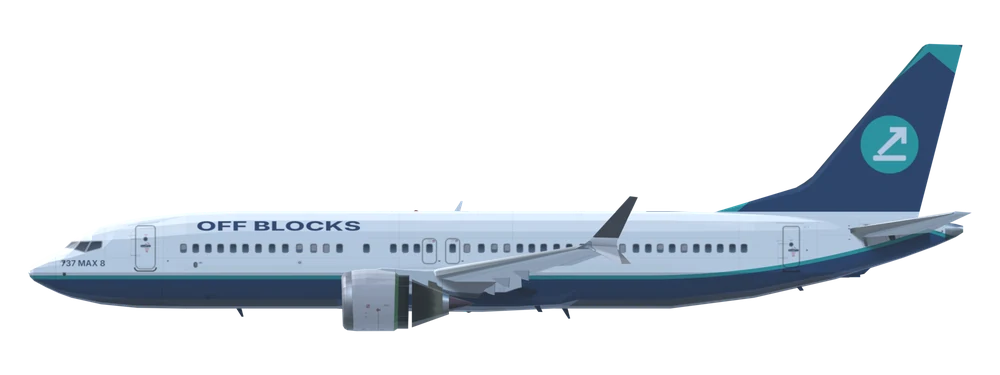
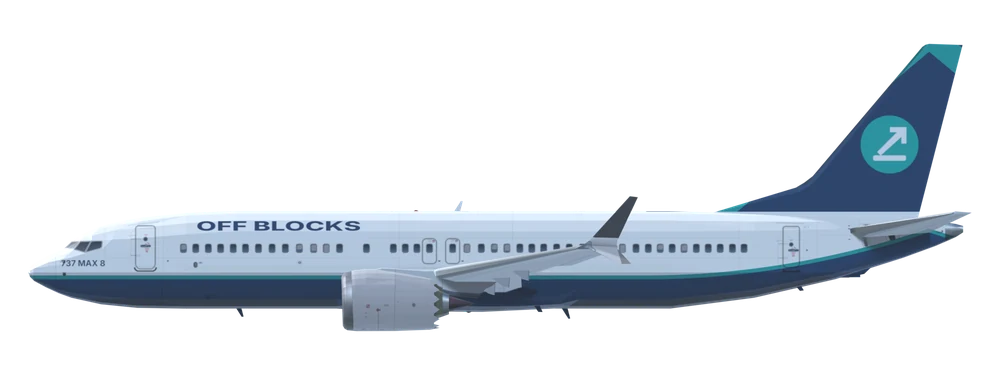
Fix 737 MAX 8 engine render
Claude-Session: https://claude.ai/code/session_01XrFePU9h1hCzy7p7tSHsYD

Changed region(s): [[0.372, 0.7333, 0.434, 0.88]]

diff --git a/sw.js b/sw.js
@@ -1,5 +1,5 @@
 /* Off Blocks service worker. Bump VER to push an update to installed copies. */
-const VER='ob-v34',CORE=["./", "index.html", "manifest.webmanifest", "network.json", "icons/icon-192.png", "icons/icon-512.png", "mapimg/detail.json", "mapimg/sat.webp", "mapimg/terrain.webp", "img/A19N.webp", "img/A19N_side.webp", "img/A20N.webp", "img/A20N_side.webp", "img/A21N.webp", "img/A21N_side.webp", "img/A21X.webp", "img/A21X_side.webp", "img/A306_side.webp", "img/A310.webp", "img/A310_side.webp", "img/A318.webp", "img/A318_side.webp", "img/A319.webp", "img/A319_side.webp", "img/A320.webp", "img/A320_side.webp", "img/A321.webp", "img/A321_side.webp", "img/A332_side.webp", "img/A333_side.webp", "img/A338.webp", "img/A338_side.webp", "img/A339.webp", "img/A339_side.webp", "img/A343_side.webp", "img/A346_side.webp", "img/A359_side.webp", "img/A35K.webp", "img/A35K_side.webp", "img/A388_side.webp", "img/AN24.webp", "img/AR21.webp", "img/AT42_side.webp", "img/AT76_side.webp", "img/B190.webp", "img/B37M.webp", "img/B37M_side.webp", "img/B38M.webp", "img/B38M_side.webp", "img/B39M.webp", "img/B39M_side.webp", "img/B3XM.webp", "img/B3XM_side.webp", "img/B712.webp", "img/B712_side.webp", "img/B722_side.webp", "img/B732.webp", "img/B732_side.webp", "img/B733_side.webp", "img/B734_side.webp", "img/B735.webp", "img/B735_side.webp", "img/B736_side.webp", "img/B737_side.webp", "img/B738_side.webp", "img/B739_side.webp", "img/B744_side.webp", "img/B748_side.webp", "img/B752.webp", "img/B752_side.webp", "img/B753.webp", "img/B753_side.webp", "img/B762.webp", "img/B762_side.webp", "img/B763_side.webp", "img/B764.webp", "img/B764_side.webp", "img/B772_side.webp", "img/B773.webp", "img/B773_side.webp", "img/B779.webp", "img/B779_side.webp", "img/B77L_side.webp", "img/B77W_side.webp", "img/B788_side.webp", "img/B789_side.webp", "img/B78X_side.webp", "img/BCS1_side.webp", "img/BCS3_side.webp", "img/C208.webp", "img/C208_side.webp", "img/C919.webp", "img/C919_side.webp", "img/CRJ2.webp", "img/CRJ2_side.webp", "img/CRJ7_side.webp", "img/CRJ9.webp", "img/CRJ9_side.webp", "img/CRJX_side.webp", "img/D328.webp", "img/DH8A.webp", "img/DH8A_side.webp", "img/DH8C_side.webp", "img/DH8D_side.webp", "img/DHC6_side.webp", "img/E120.webp", "img/E120_side.webp", "img/E135.webp", "img/E135_side.webp", "img/E140.webp", "img/E140_side.webp", "img/E145.webp", "img/E145_side.webp", "img/E170_side.webp", "img/E175_side.webp", "img/E190_side.webp", "img/E195.webp", "img/E195_side.webp", "img/E290_side.webp", "img/E295.webp", "img/E295_side.webp", "img/E75X.webp", "img/E75X_side.webp", "img/F100.webp", "img/F100_side.webp", "img/F50.webp", "img/F50_side.webp", "img/F70.webp", "img/F70_side.webp", "img/J41.webp", "img/L410.webp", "img/L410_side.webp", "img/MA60.webp", "img/MD83.webp", "img/MD83_side.webp", "img/MD90.webp", "img/MD90_side.webp", "img/RJ1H.webp", "img/RJ1H_side.webp", "img/RJ85.webp", "img/RJ85_side.webp", "img/SB20.webp", "img/SF34_side.webp", "img/T154.webp", "img/T154_side.webp"];
+const VER='ob-v35',CORE=["./", "index.html", "manifest.webmanifest", "network.json", "icons/icon-192.png", "icons/icon-512.png", "mapimg/detail.json", "mapimg/sat.webp", "mapimg/terrain.webp", "img/A19N.webp", "img/A19N_side.webp", "img/A20N.webp", "img/A20N_side.webp", "img/A21N.webp", "img/A21N_side.webp", "img/A21X.webp", "img/A21X_side.webp", "img/A306_side.webp", "img/A310.webp", "img/A310_side.webp", "img/A318.webp", "img/A318_side.webp", "img/A319.webp", "img/A319_side.webp", "img/A320.webp", "img/A320_side.webp", "img/A321.webp", "img/A321_side.webp", "img/A332_side.webp", "img/A333_side.webp", "img/A338.webp", "img/A338_side.webp", "img/A339.webp", "img/A339_side.webp", "img/A343_side.webp", "img/A346_side.webp", "img/A359_side.webp", "img/A35K.webp", "img/A35K_side.webp", "img/A388_side.webp", "img/AN24.webp", "img/AR21.webp", "img/AT42_side.webp", "img/AT76_side.webp", "img/B190.webp", "img/B37M.webp", "img/B37M_side.webp", "img/B38M.webp", "img/B38M_side.webp", "img/B39M.webp", "img/B39M_side.webp", "img/B3XM.webp", "img/B3XM_side.webp", "img/B712.webp", "img/B712_side.webp", "img/B722_side.webp", "img/B732.webp", "img/B732_side.webp", "img/B733_side.webp", "img/B734_side.webp", "img/B735.webp", "img/B735_side.webp", "img/B736_side.webp", "img/B737_side.webp", "img/B738_side.webp", "img/B739_side.webp", "img/B744_side.webp", "img/B748_side.webp", "img/B752.webp", "img/B752_side.webp", "img/B753.webp", "img/B753_side.webp", "img/B762.webp", "img/B762_side.webp", "img/B763_side.webp", "img/B764.webp", "img/B764_side.webp", "img/B772_side.webp", "img/B773.webp", "img/B773_side.webp", "img/B779.webp", "img/B779_side.webp", "img/B77L_side.webp", "img/B77W_side.webp", "img/B788_side.webp", "img/B789_side.webp", "img/B78X_side.webp", "img/BCS1_side.webp", "img/BCS3_side.webp", "img/C208.webp", "img/C208_side.webp", "img/C919.webp", "img/C919_side.webp", "img/CRJ2.webp", "img/CRJ2_side.webp", "img/CRJ7_side.webp", "img/CRJ9.webp", "img/CRJ9_side.webp", "img/CRJX_side.webp", "img/D328.webp", "img/DH8A.webp", "img/DH8A_side.webp", "img/DH8C_side.webp", "img/DH8D_side.webp", "img/DHC6_side.webp", "img/E120.webp", "img/E120_side.webp", "img/E135.webp", "img/E135_side.webp", "img/E140.webp", "img/E140_side.webp", "img/E145.webp", "img/E145_side.webp", "img/E170_side.webp", "img/E175_side.webp", "img/E190_side.webp", "img/E195.webp", "img/E195_side.webp", "img/E290_side.webp", "img/E295.webp", "img/E295_side.webp", "img/E75X.webp", "img/E75X_side.webp", "img/F100.webp", "img/F100_side.webp", "img/F50.webp", "img/F50_side.webp", "img/F70.webp", "img/F70_side.webp", "img/J41.webp", "img/L410.webp", "img/L410_side.webp", "img/MA60.webp", "img/MD83.webp", "img/MD83_side.webp", "img/MD90.webp", "img/MD90_side.webp", "img/RJ1H.webp", "img/RJ1H_side.webp", "img/RJ85.webp", "img/RJ85_side.webp", "img/SB20.webp", "img/SF34_side.webp", "img/T154.webp", "img/T154_side.webp"];
 self.addEventListener('install',e=>{e.waitUntil(caches.open(VER).then(c=>Promise.all(CORE.map(u=>c.add(u).catch(()=>0)))).then(()=>self.skipWaiting()))});
 self.addEventListener('activate',e=>{e.waitUntil(caches.keys().then(k=>Promise.all(k.filter(x=>x!==VER).map(x=>caches.delete(x)))).then(()=>self.clients.claim()))});
 self.addEventListener('fetch',e=>{const r=e.request,u=new URL(r.url);if(r.method!=='GET'||u.origin!==location.origin)return;
